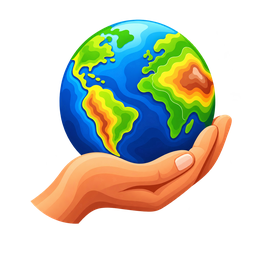
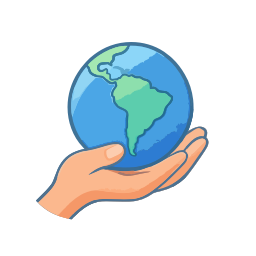
release: 1.0.8 — novo ícone principal e ícones dos módulos
- Ícone principal trocado pelo novo desenho da mão com o globo (estilo
  plano), fornecido pelo autor em SVG (icons/vista_saga_plugin.svg).
  icon.png (256 px) e icons/icon_{16,19,24,32,48,50,64,128,512}.png foram
  gerados a partir dele com o renderizador SVG do Qt; o código do botão
  não muda, preservando a integração homologada com o QRibbonSkin.
- Inclui os ícones SVG dos sete módulos no menu suspenso.
- Versão 1.0.8: metadata.txt, CHANGELOG.md, NOTAS_DA_VERSAO_108.md, README.
  A 1.0.7 existiu só como build de teste.

Claude-Session: https://claude.ai/code/session_01PrUoCerRmA9JpvjFJNLsN9

diff --git a/README.md b/README.md
@@ -6,9 +6,9 @@
 
 **Site oficial e apresentação do projeto:** [vistasagaplugin.wordpress.com](https://vistasagaplugin.wordpress.com/) · **Código-fonte:** [GitHub](https://github.com/ezrandrade/Vista-Saga-Plugin)
 
-**Versão do código-fonte: `1.0.6` (11/11/2026).** Nova conversão **Vetor → RS2** e correção do formato RS2 para legendas com códigos não consecutivos, como as gravadas pelo Vista SAGA original; inclui as correções de estabilidade da 1.0.5. A **versão publicada atualmente no catálogo oficial do QGIS ainda é a `1.0.3`**, até que a nova seja submetida e aprovada.
+**Versão do código-fonte: `1.0.8` (12/11/2026).** Novo ícone principal e ícones para os sete módulos no menu suspenso; inclui a conversão **Vetor → RS2** e as correções do formato RS2 da 1.0.6 e as correções de estabilidade da 1.0.5. A **versão publicada atualmente no catálogo oficial do QGIS ainda é a `1.0.3`**, até que a nova seja submetida e aprovada.
 
-> **ZIP instalável:** gere-o com `python scripts/build_release.py` (cria `dist/Vista_Saga_Plugin_QGIS4_v<versão>.zip`). Não utilize **Code → Download ZIP** como se fosse o ZIP instalável. [Notas da versão 1.0.6](geosaga/NOTAS_DA_VERSAO_106.md) · [Testes](tests/README.md).
+> **ZIP instalável:** gere-o com `python scripts/build_release.py` (cria `dist/Vista_Saga_Plugin_QGIS4_v<versão>.zip`). Não utilize **Code → Download ZIP** como se fosse o ZIP instalável. [Notas da versão 1.0.8](geosaga/NOTAS_DA_VERSAO_108.md) · [Testes](tests/README.md).
 
 ## Módulos
 
@@ -58,6 +58,7 @@ python scripts/build_release.py
 
 ## Histórico, suporte e licença
 
+- [Notas da versão 1.0.8 (novos ícones)](geosaga/NOTAS_DA_VERSAO_108.md)
 - [Notas da versão 1.0.6 (Vetor → RS2 e formato RS2)](geosaga/NOTAS_DA_VERSAO_106.md)
 - [Notas da versão 1.0.5 (estabilidade)](geosaga/NOTAS_DA_VERSAO_105.md)
 - [Notas da versão 1.0.4 (pacote consolidado)](geosaga/NOTAS_DA_VERSAO_104.md)

diff --git a/geosaga/CHANGELOG.md b/geosaga/CHANGELOG.md
@@ -1,3 +1,17 @@
+## 1.0.8 — novos ícones (2026-11-12)
+
+Nenhum algoritmo de processamento foi alterado; os identificadores `geosaga:*` foram preservados.
+
+- **Ícone principal:** o botão do plugin, os menus Raster e Complementos e a guia do QRibbonSkin
+  passam a usar o novo desenho da mão com o globo, em estilo plano. Os PNG de 16 a 512 px
+  (inclusive o de 19 px do QRibbonSkin) foram gerados a partir de um único SVG
+  (`icons/vista_saga_plugin.svg`), sem mudança no código do botão.
+- **Ícones dos módulos:** cada um dos sete itens do menu suspenso exibe o ícone do seu módulo
+  (`icons/modulos/*.svg`). Arquivo ausente não remove o item do menu.
+- Teste novo garante que todo módulo do menu tem um SVG existente, quadrado e sem scripts ou
+  referências externas.
+- A 1.0.7 existiu apenas como build interno de teste (1.0.7-dev1) e não foi lançada.
+
 ## 1.0.6 — conversão Vetor → RS2 e correção do formato RS2 (2026-11-11)
 
 - **Nova operação Vetor → RS2 (rasterização Vista SAGA)** no Conversor de formatos, sem a etapa

diff --git a/geosaga/NOTAS_DA_VERSAO_108.md b/geosaga/NOTAS_DA_VERSAO_108.md
@@ -1,0 +1,10 @@
+# Vista Saga Plugin 1.0.8 — notas da versão
+
+Versão de identidade visual. Inclui tudo da 1.0.6 ([notas](NOTAS_DA_VERSAO_106.md)).
+
+- **Novo ícone principal** (mão com o globo, estilo plano) no botão do plugin, nos menus Raster e
+  Complementos e na guia do QRibbonSkin.
+- **Ícones para os sete módulos** no menu suspenso: Assinatura, Monitoria, Avaliação, Análises
+  Voronoi, Combinação de Mapas, Conversão de Formatos e Sequenciador de Mapas.
+
+Nenhum algoritmo de processamento foi alterado. A 1.0.7 foi apenas um build interno de teste.
